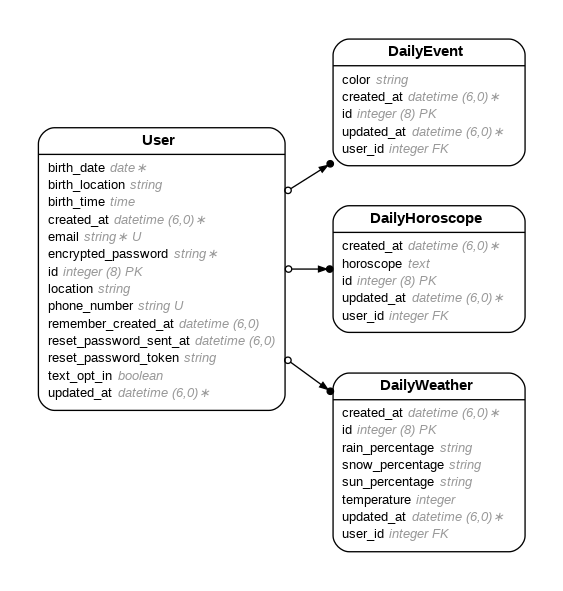
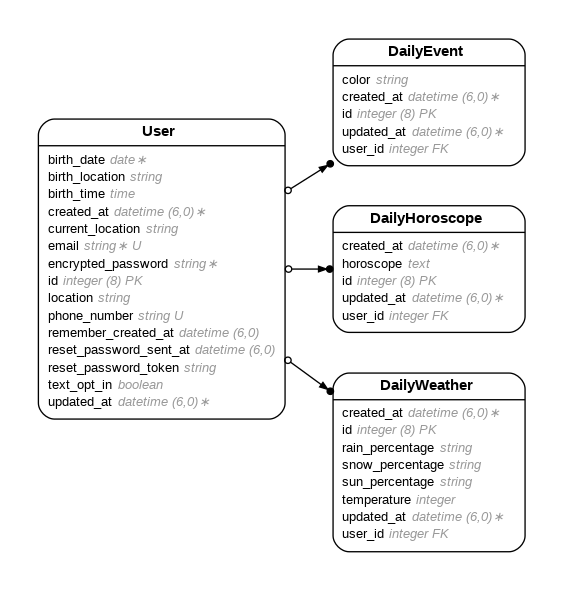
updated weather parsing and started working on updating user forms to include current vs birth location

Changed region(s): [[0.0604, 0.1827, 0.5133, 0.731]]

diff --git a/app/controllers/home_controller.rb b/app/controllers/home_controller.rb
@@ -11,13 +11,13 @@ class HomeController < ApplicationController
     # If no horoscope exists for today, create one
     if @dailyhoroscope.nil?
       
-      # Build a new record for this user
+      # Build a new daily record for this user
       @dailyhoroscope = current_user.daily_horoscopes.new
 
-      # Initialize AI Chat
+      # Initialize Chat
       c = AI::Chat.new
 
-      # System context
+      # System prompt
       c.system("You are an expert astrologer who creates personalized daily horoscopes based on birth information. Provide a funny, light-hearted daily horoscope reading based on birth date, and on birth location/time if provided. This horoscope should only be one sentence, and your response shouldn't include anything other than the one-sentence horoscope. The horoscope can be kind or saracastic, but it shouldn't be mean or too dark. Good themes include friendships, relationships, or career. The horoscope doesn't need to be directive or logical.")
 
       # User birth information
@@ -25,18 +25,18 @@ class HomeController < ApplicationController
 
       c.user(birth_info)
 
-      # Ask AI to respond (this appends to c.messages)
-      c.generate!
+      # Generate response
+      #c.generate!
 
-      # Get the assistant's reply text (per ai-chat docs)
-      ai_text = c.last
+      # Get the reply text
+      #ai_text = c.last
 
       # Debug in logs to confirm it's not blank
-      pp ai_text
+      #pp ai_text
 
       # Save on the record
-      @dailyhoroscope.horoscope = ai_text
-      @dailyhoroscope.save
+      #@dailyhoroscope.horoscope = ai_text
+      #@dailyhoroscope.save
     end
 
     # Daily Weather (update even if it's already been populated today)
@@ -63,16 +63,43 @@ class HomeController < ApplicationController
     hourly_array = hourly_hash.fetch("data")
 
     # Look at precipitation data
-    count = 0
+    @precipcount = 0
     hourly_array[0..11].each_with_index do |precip, index|
       if precip.fetch("precipProbability") >= 0.10
-        count += 1
+        @precipcount += 1
       end
     end
 
-    if count >= 1
+    if @precipcount >= 1
       pp "You might want to carry an umbrella!"
-    else pp "You probably won't need an umbrella today."     end
+    else pp "You probably won't need an umbrella today."     
+    end
+
+    # Look at cloud cover data
+    @cloudycount = 0
+    hourly_array[0..11].each_with_index do |cloudy, index|
+      if cloudy.fetch("cloudCover") >= 0.875
+        @cloudycount += 1
+      end
+    end
+
+    if @cloudycount <= 4
+      pp "You might want to bring sunglasses!"
+    else pp "You probably won't need sunglasses today."     
+    end
+
+    # Look at temperature data
+   @coldcount = 0
+    hourly_array[0..11].each_with_index do |cold, index|
+      if cold.fetch("temperature") <= 32
+        @coldcount += 1
+      end
+    end
+
+    if @coldcount >= 4
+      pp "You might want to bring an extra layer!"
+    else pp "You probably won't need an extra layer today."     
+    end
 
     render({ :template => "home_templates/index" })
   end

diff --git a/db/schema.rb b/db/schema.rb
@@ -10,7 +10,7 @@
 #
 # It's strongly recommended that you check this file into your version control system.
 
-ActiveRecord::Schema[8.0].define(version: 2025_12_04_010318) do
+ActiveRecord::Schema[8.0].define(version: 2025_12_08_212902) do
   # These are extensions that must be enabled in order to support this database
   enable_extension "pg_catalog.plpgsql"
 
@@ -194,6 +194,7 @@ ActiveRecord::Schema[8.0].define(version: 2025_12_04_010318) do
     t.datetime "created_at", null: false
     t.datetime "updated_at", null: false
     t.boolean "text_opt_in", default: false
+    t.string "current_location"
     t.index ["email"], name: "index_users_on_email", unique: true
     t.index ["reset_password_token"], name: "index_users_on_reset_password_token", unique: true
   end

diff --git a/app/models/user.rb b/app/models/user.rb
@@ -6,6 +6,7 @@
 #  birth_date             :date
 #  birth_location         :string
 #  birth_time             :time
+#  current_location       :string
 #  email                  :string           default(""), not null
 #  encrypted_password     :string           default(""), not null
 #  location               :string
@@ -35,6 +36,6 @@ class User < ApplicationRecord
  # validates :text_time, presence: true
   validates :phone_number, format: { with: /\A[0-9]{10}\z/ }
   validates :phone_number, uniqueness: { case_sensitive: false, message: "This phone number has already been registered. Please sign in." }
- # validates :location, presence: true
+  validates :current_location, presence: true
   validates :birth_date, presence: true
 end

diff --git a/app/controllers/application_controller.rb b/app/controllers/application_controller.rb
@@ -4,9 +4,10 @@ class ApplicationController < ActionController::Base
   before_action :configure_permitted_parameters, { :if => :devise_controller? }
 
   def configure_permitted_parameters
-    added_attrs = [:phone_number, :birth_date, :location, :birth_time, :text_time]
+    added_attrs = [:phone_number, :birth_date, :current_location, :birth_time, :text_time]
 
     devise_parameter_sanitizer.permit(:sign_up, :keys => added_attrs)
     devise_parameter_sanitizer.permit(:account_update, :keys => added_attrs)
   end
+
 end

diff --git a/db/migrate/20251208213426_rename_location_to_birth_location_in_users.rb b/db/migrate/20251208213426_rename_location_to_birth_location_in_users.rb
@@ -1,0 +1,5 @@
+class RenameLocationToBirthLocationInUsers < ActiveRecord::Migration[8.0]
+  def change
+    rename_column :users, :location, :current_location
+  end
+end

diff --git a/db/migrate/20251208212902_add_current_location_to_users.rb b/db/migrate/20251208212902_add_current_location_to_users.rb
@@ -1,0 +1,5 @@
+class AddCurrentLocationToUsers < ActiveRecord::Migration[8.0]
+  def change
+    add_column :users, :current_location, :string
+  end
+end
